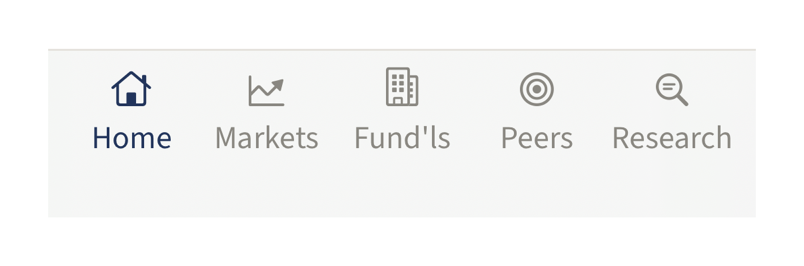
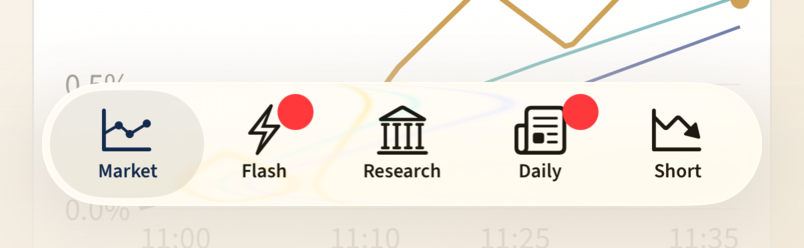
🐛 Show the real Liquid Glass tab bar with the app's five tabs
Claude-Session: https://claude.ai/code/session_01JGtm5mCc52vYSurSAbDXV2

diff --git a/engage-design-system.html b/engage-design-system.html
@@ -499,7 +499,7 @@ footer { border-top: 1px solid var(--hairline); margin-top: 3.5rem; padding-top:
           <figure><img src="images/AuthScaffold.png" alt="AuthScaffold" loading="lazy"><figcaption><b>AuthScaffold</b>: the pre-auth content column, centred and width-capped.</figcaption></figure>
           <figure><img src="images/WordmarkHeader.png" alt="WordmarkHeader" loading="lazy"><figcaption><b>WordmarkHeader</b>: the wordmark over a hairline, at the root of a screen.</figcaption></figure>
           <figure><img src="images/NavBar.png" alt="NavBar" loading="lazy"><figcaption><b>NavBar</b>: the compact top bar, with a centred title, a back button and optional trailing content.</figcaption></figure>
-          <figure><img src="images/TabBar.png" alt="TabBar" loading="lazy"><figcaption><b>TabBar</b>: the bottom tab bar.</figcaption></figure>
+          <figure><img src="images/TabBar.png" alt="TabBar" loading="lazy"><figcaption><b>TabBar</b>: the root tab bar. The iOS 26 system tab bar (Liquid Glass) with the app's five tabs: Market, Flash, Research, Daily, Short. It minimises on scroll down; titles show on the first launches only, then icons alone.</figcaption></figure>
           <figure><img src="images/Hairline.png" alt="Hairline" loading="lazy"><figcaption><b>Hairline</b>: the 1pt divider, horizontal or vertical.</figcaption></figure>
           <figure><img src="images/WrapLayout.png" alt="WrapLayout" loading="lazy"><figcaption><b>WrapLayout</b>: flow layout that wraps items onto the next line.</figcaption></figure>
         </div>

diff --git a/index.html b/index.html
@@ -499,7 +499,7 @@ footer { border-top: 1px solid var(--hairline); margin-top: 3.5rem; padding-top:
           <figure><img src="images/AuthScaffold.png" alt="AuthScaffold" loading="lazy"><figcaption><b>AuthScaffold</b>: the pre-auth content column, centred and width-capped.</figcaption></figure>
           <figure><img src="images/WordmarkHeader.png" alt="WordmarkHeader" loading="lazy"><figcaption><b>WordmarkHeader</b>: the wordmark over a hairline, at the root of a screen.</figcaption></figure>
           <figure><img src="images/NavBar.png" alt="NavBar" loading="lazy"><figcaption><b>NavBar</b>: the compact top bar, with a centred title, a back button and optional trailing content.</figcaption></figure>
-          <figure><img src="images/TabBar.png" alt="TabBar" loading="lazy"><figcaption><b>TabBar</b>: the bottom tab bar.</figcaption></figure>
+          <figure><img src="images/TabBar.png" alt="TabBar" loading="lazy"><figcaption><b>TabBar</b>: the root tab bar. The iOS 26 system tab bar (Liquid Glass) with the app's five tabs: Market, Flash, Research, Daily, Short. It minimises on scroll down; titles show on the first launches only, then icons alone.</figcaption></figure>
           <figure><img src="images/Hairline.png" alt="Hairline" loading="lazy"><figcaption><b>Hairline</b>: the 1pt divider, horizontal or vertical.</figcaption></figure>
           <figure><img src="images/WrapLayout.png" alt="WrapLayout" loading="lazy"><figcaption><b>WrapLayout</b>: flow layout that wraps items onto the next line.</figcaption></figure>
         </div>
